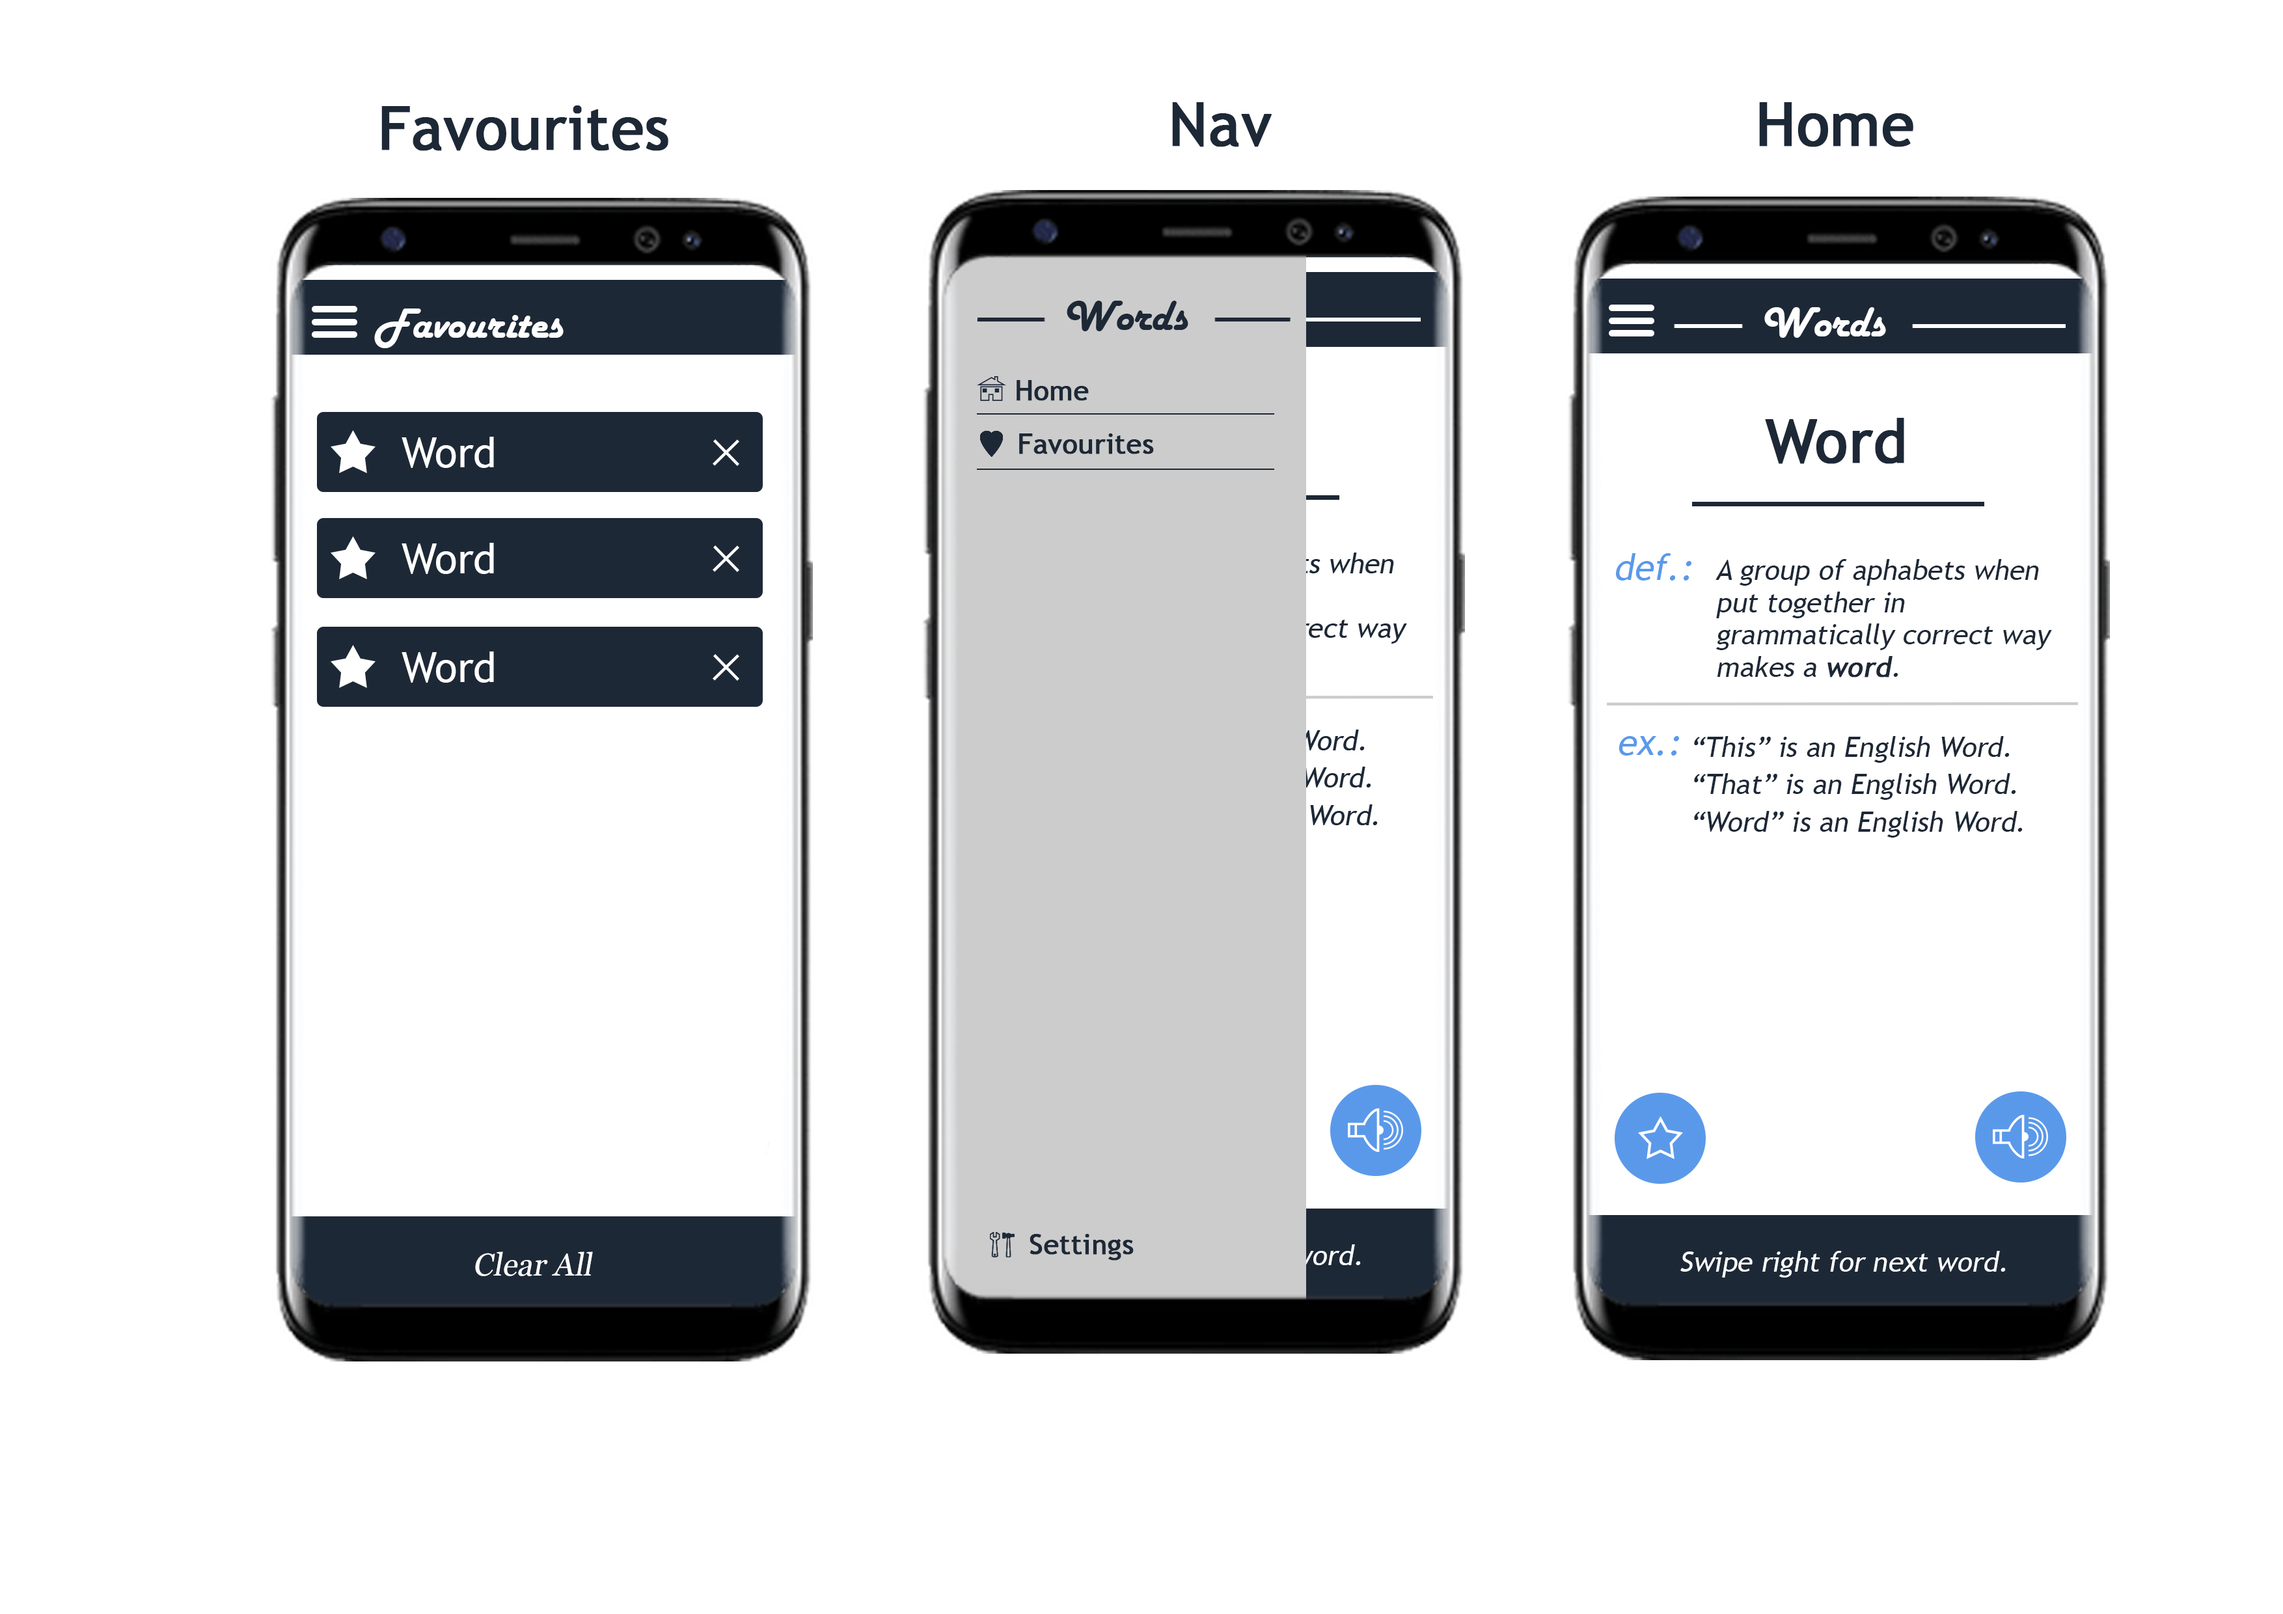
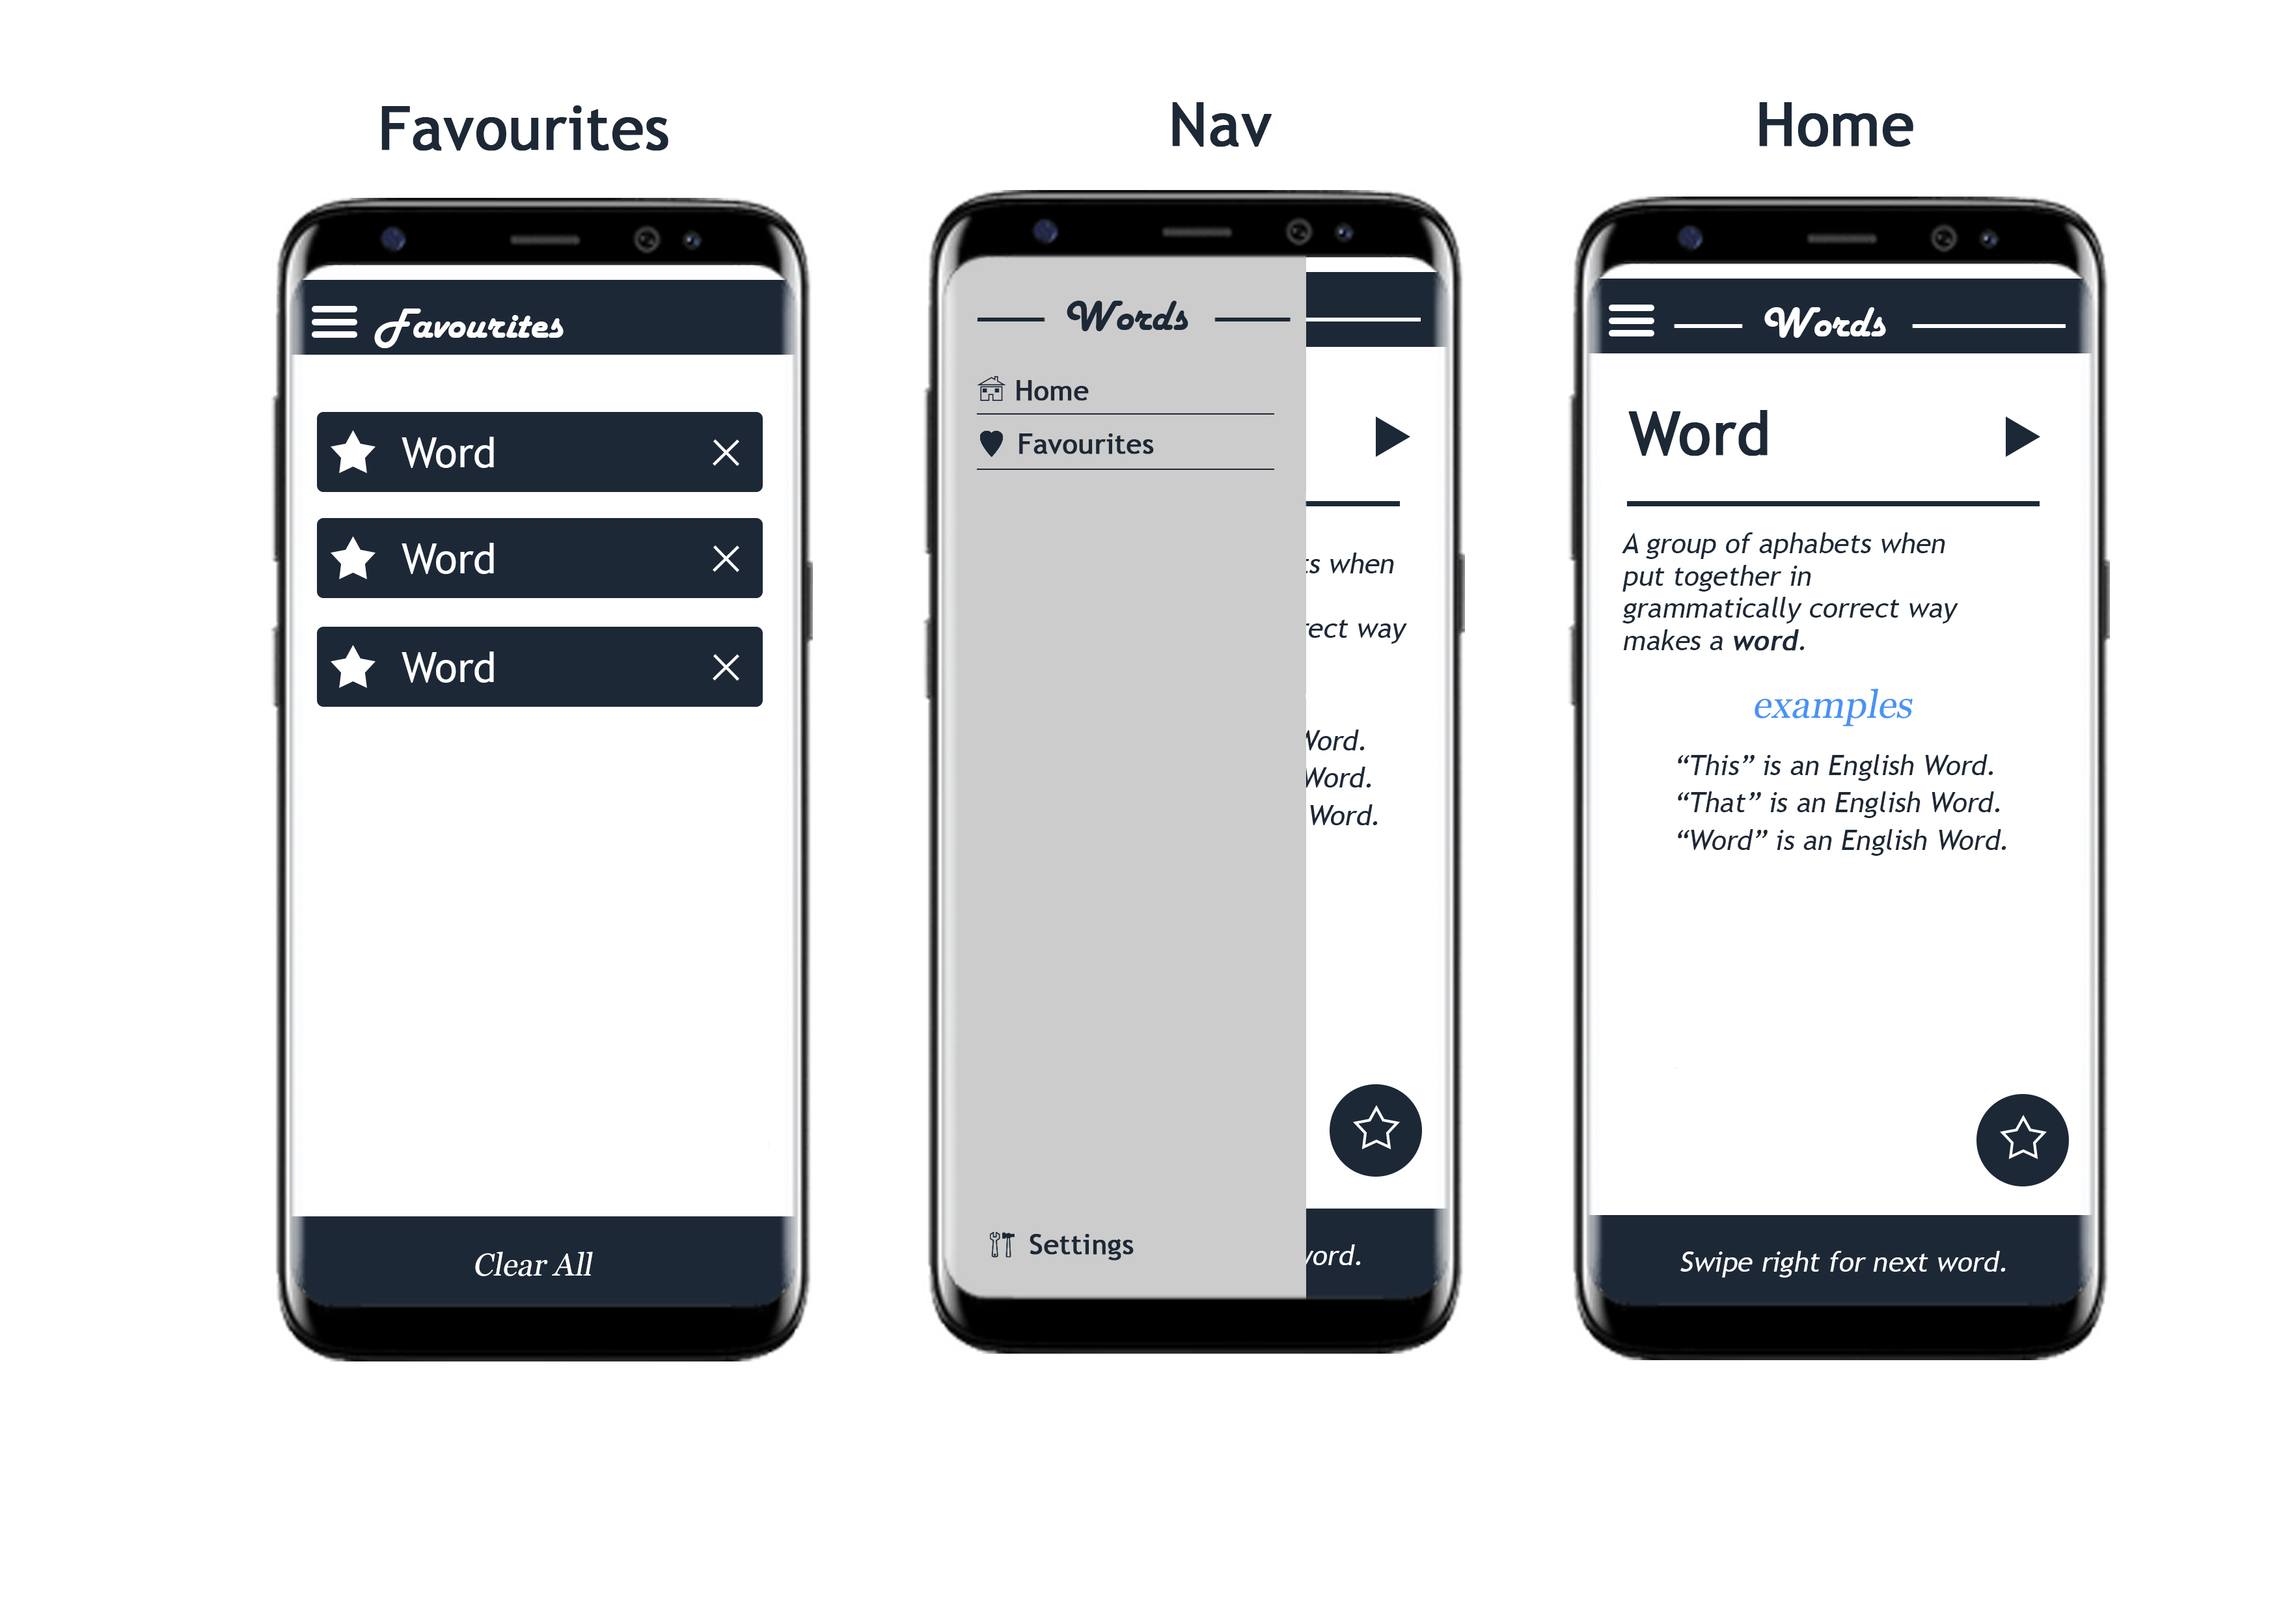
Homescreen Done

diff --git a/lib/main.dart b/lib/main.dart
@@ -1,5 +1,7 @@
 import 'package:flutter/material.dart';
 
+import './Screens/homeScreen.dart';
+
 void main() => runApp(MyApp());
 
 class MyApp extends StatelessWidget {
@@ -35,56 +37,30 @@ class MyApp extends StatelessWidget {
                 //word
                 fontFamily: 'Georgia',
                 color: primaryColor,
-                fontSize: 48,
+                fontSize: 44,
                 fontWeight: FontWeight.w500,
+              ),
+              subtitle: TextStyle(
+                fontStyle: FontStyle.italic,
+                fontSize: 20,
+                color: Color(0xFF5a99e9),
               ),
               body1: TextStyle(
                 //def,eg
                 fontFamily: 'Georgia',
-                fontStyle: FontStyle.italic,
-                color: Color(0xFF5a99e9),
+                fontSize: 24,
+                color: primaryColor
               ),
               body2: TextStyle(
-                  //actual content
-                  fontFamily: 'Georgia',
-                  fontStyle: FontStyle.italic,
-                  color: Colors.black,
-                ),
+                //actual content
+                fontFamily: 'Georgia',
+                fontSize: 20,
+                fontStyle: FontStyle.italic,
+                color: primaryColor,
+              ),
             ),
       ),
-      home: MyHomePage(title: 'Words'),
-    );
-  }
-}
-
-class MyHomePage extends StatefulWidget {
-  MyHomePage({Key key, this.title}) : super(key: key);
-
-  final String title;
-
-  @override
-  _MyHomePageState createState() => _MyHomePageState();
-}
-
-class _MyHomePageState extends State<MyHomePage> {
-  @override
-  Widget build(BuildContext context) {
-    return Scaffold(
-      appBar: AppBar(
-        title: Text(
-          widget.title,
-          style: Theme.of(context).textTheme.headline,
-        ),
-        centerTitle: true,
-      ),
-      body: Column(
-        mainAxisAlignment: MainAxisAlignment.spaceAround,
-        children: <Widget>[
-          Text("Subhead", style: Theme.of(context).textTheme.subhead,),
-          Text("Body1", style: Theme.of(context).textTheme.body1,),
-          Text("Body2", style: Theme.of(context).textTheme.body2,),
-        ]
-      )
+      home: HomeScreen(),
     );
   }
 }

diff --git a/lib/Screens/homeScreen.dart b/lib/Screens/homeScreen.dart
@@ -1,0 +1,55 @@
+import 'package:flutter/material.dart';
+
+import '../Widgets/word.dart';
+import '../Widgets/wordDetails.dart';
+
+class HomeScreen extends StatelessWidget {
+  final String title = "Word";
+  @override
+  Widget build(BuildContext context) {
+    return Scaffold(
+      appBar: AppBar(
+        title: Text(
+          title,
+          style: Theme.of(context).textTheme.headline,
+        ),
+        centerTitle: true,
+      ),
+      body: SingleChildScrollView(
+        child: Column(
+          children: <Widget>[
+            Word(),
+            Divider(
+              color: Theme.of(context).primaryColor,
+              thickness: 3,
+              endIndent: 20.0,
+              indent: 20.0,
+            ),
+            WordDetails(),
+          ],
+        ),
+      ),
+      floatingActionButton: Container(
+        padding: EdgeInsets.only(bottom: 50),
+        child: FloatingActionButton(
+          backgroundColor: Theme.of(context).primaryColor,
+          child: Icon(
+            Icons.star_border,
+            color: Colors.white,
+          ),
+          onPressed: () {},
+        ),
+      ),
+      bottomSheet: Container(
+        alignment: Alignment.center,
+        width: MediaQuery.of(context).size.width,
+        height: 50,
+        child: Text(
+          "Swipe right for next word",
+          style: Theme.of(context).textTheme.headline,
+        ),
+        color: Theme.of(context).primaryColor,
+      ),
+    );
+  }
+}

diff --git a/lib/Widgets/wordDetails.dart b/lib/Widgets/wordDetails.dart
@@ -1,0 +1,36 @@
+import 'package:flutter/material.dart';
+
+class WordDetails extends StatelessWidget {
+  @override
+  Widget build(BuildContext context) {
+    return Padding(
+      padding: EdgeInsets.symmetric(
+        horizontal: 20,
+        vertical: 15,
+      ),
+      child: Column(
+        crossAxisAlignment: CrossAxisAlignment.center,
+        children: [
+          Text(
+            "a single distinct meaningful element of speech or writing,used with others (or sometimes alone) to form a sentence and typically shown with a space on either side when written or printed",
+            style: Theme.of(context).textTheme.body1,
+          ),
+          SizedBox(
+            height: 20,
+          ),
+          Text(
+            "examples:",
+            style: Theme.of(context).textTheme.subtitle,
+          ),
+          SizedBox(
+            height: 20,
+          ),
+          Text(
+            "\"This\" is an English Word",
+            style: Theme.of(context).textTheme.body2,
+          ),
+        ],
+      ),
+    );
+  }
+}

diff --git a/lib/Widgets/word.dart b/lib/Widgets/word.dart
@@ -1,0 +1,27 @@
+import 'package:flutter/material.dart';
+
+class Word extends StatelessWidget {
+  @override
+  Widget build(BuildContext context) {
+    return Padding(
+      padding: EdgeInsets.only(top: 24, left: 20, right: 20, bottom: 18),
+      child: Row(
+        mainAxisSize: MainAxisSize.max,
+        mainAxisAlignment: MainAxisAlignment.spaceBetween,
+        children: <Widget>[
+          Text(
+            "Word",
+            style: Theme.of(context).textTheme.subhead,
+          ),
+          IconButton(
+            icon: Icon(
+              Icons.play_arrow,
+              size: 40.0,
+            ),
+            onPressed: () {},
+          )
+        ],
+      ),
+    );
+  }
+}

diff --git a/lib/Screens/FavScreen.dart b/lib/Screens/FavScreen.dart
@@ -1,0 +1,10 @@
+import 'package:flutter/material.dart';
+
+class FavouritesScreen extends StatelessWidget {
+  @override
+  Widget build(BuildContext context) {
+    return Container(
+      child: Text("Favourites Screen"),
+    );
+  }
+}
